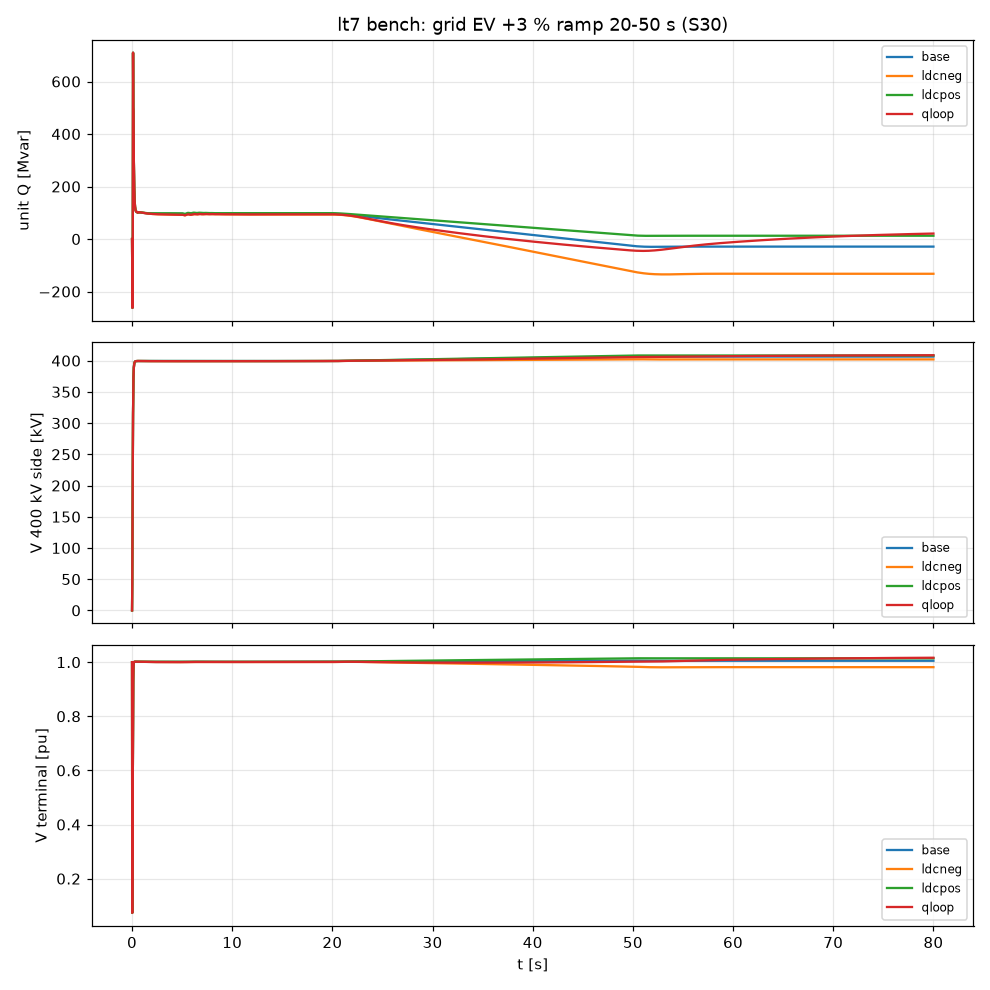
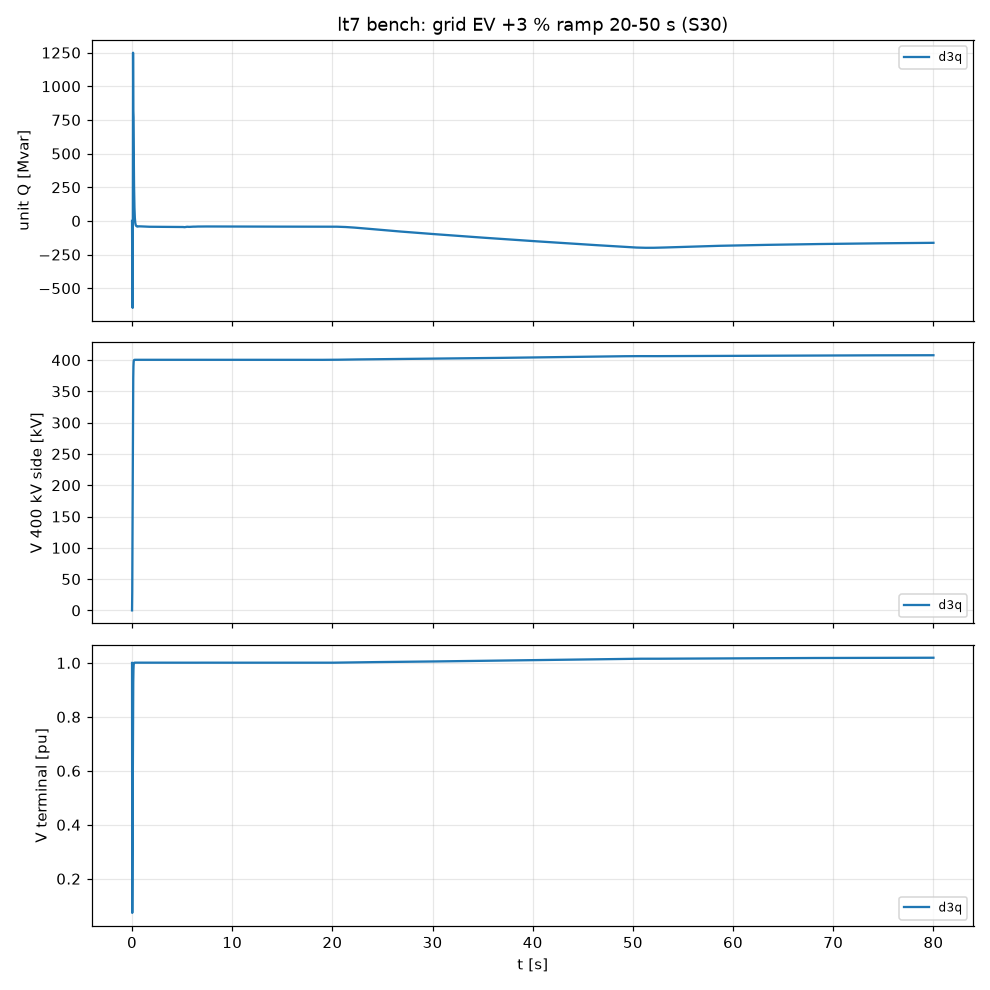
v2 PSCAD skeleton: generator build_v2.py, 162 nodes, 0 errors; RUNLOG S30 sec 3-4

diff --git a/iberia_eq/pscad/build_v2.py b/iberia_eq/pscad/build_v2.py
@@ -1,0 +1,199 @@
+r"""Build the v2 Iberian equivalent in PSCAD from the accepted pandapower state (RUNLOG S30).
+
+usage: python iberia_eq\pscad\build_v2.py --probe          place one of each module type, print ports/params, stop
+       python iberia_eq\pscad\build_v2.py [--build]       generate C:\PSCAD_work\v2\v2.pscx (+ build, print node count)
+
+Source of every number: iberia_eq\cal_s29\base_vk3_net.p (DUMP_NET of the accepted state, S29 sec 10), the v2 design
+(V2_BUS_UNIT_LIST.md) and the S30 decisions:
+  - all units directly on their 400 kV bus (no step-up), AVR load compensation XCc = +vk (3 % Spain, 5 % Portugal),
+    outer Q loop Kdrp 4 / Kiq 0.005 on generators; embedded machines hold Q (Kdrp 0);
+  - Morocco keeps its 15 % transformer (Morocco-Iberia mode);
+  - pumps: PumpUnit per stage behind breaker3 (M1 Duero, M2 Ebro, M3..M7 Portugal Table 3-15);
+  - RES: 21 RES_Plant (report plants + zone aggregates + ARA); zones without a plant net their RES into the load;
+  - loads / shunts / HVDC as varrlc to ground (constant impedance in the skeleton; controls come in the full build);
+  - France: source3 at the FR hub, Z 20 ohm / 85 deg [inf, to calibrate for the 4,609 MW AC peak].
+Everything is connected with node labels placed on the ports (no wires), skill P2/P4.
+"""
+import argparse, math, os, shutil, subprocess, sys, time
+import xml.etree.ElementTree as ET
+import numpy as np, pandapower as pp
+
+HERE = os.path.dirname(os.path.abspath(__file__)); IEQ = os.path.dirname(HERE)
+ap = argparse.ArgumentParser(); ap.add_argument("--probe", action="store_true"); ap.add_argument("--nobuild", action="store_true")
+ap.add_argument("--work", default=r"C:\PSCAD_work\v2")
+a = ap.parse_args()
+WORK = a.work; os.makedirs(WORK, exist_ok=True); PSCX = os.path.join(WORK, "v2.pscx")
+log = open(os.path.join(WORK, "build_v2.log"), "w")
+def L(*x): print(*x, flush=True); print(*x, file=log, flush=True)
+
+# ---------------- project file: lt6 template (DS, empty Main, PumpUnit) + SyncUnit (patched) + RES_Plant ----------------
+t = open(r"C:\PSCAD_work\lt6\lt6_template.pscx", encoding="utf-8").read().replace("lt6:", "v2:").replace('name="lt6"', 'name="v2"')
+open(PSCX, "w", encoding="utf-8").write(t)
+root = ET.parse(PSCX).getroot(); defs = root.find("definitions")
+src = ET.parse(r"C:\PSCAD_work\s29\ib6.pscx").getroot()
+for nm in ("SyncUnit", "RES_Plant"):
+    defs.append([d for d in src.find("definitions") if d.get("name") == nm][0])
+open(PSCX, "w", encoding="utf-8").write(ET.tostring(root, encoding="unicode"))
+r = subprocess.run([sys.executable, os.path.join(HERE, "add_qloop.py"), "--pscx", PSCX], capture_output=True, text=True); L(r.stdout.strip(), r.stderr.strip())
+v1res = {p.get("name"): p.get("value") for e in [x for x in src.find("definitions") if x.get("name") == "Main"][0].iter("User")
+         if e.get("defn") == "ib6:RES_Plant" for p in e.findall("./paramlist/param")}
+
+# ---------------- data from the accepted pandapower state ----------------
+net = pp.from_pickle(os.path.join(IEQ, "cal_s29", "base_vk3_net.p"))
+BN = dict(zip(net.bus.index, net.bus.name)); V = dict(zip(net.bus.name, net.res_bus.vm_pu)); A = dict(zip(net.bus.name, net.res_bus.va_degree))
+lab = lambda b: "B_" + b.replace("-", "_").replace(" ", "_")
+W50 = 2 * math.pi * 50
+
+import mhi.pscad
+os.environ["PATH"] = os.path.join(WORK, "v2.gf81_x86") + os.pathsep + os.environ.get("PATH", "")   # S30 run-env fix
+pscad = mhi.pscad.launch(minimize=False, splash=False, timeout=60)
+try:
+    if not pscad.licensed():
+        c = pscad.get_available_certificates(); c = next(iter(c.values())) if isinstance(c, dict) else c[0]; pscad.get_certificate(c)
+    pscad.load(PSCX); prj = pscad.project("v2"); cv = prj.canvas("Main")
+    L("Main canvas parameters:", cv.parameters() if hasattr(cv, "parameters") else "?")
+    if a.probe:
+        for k, (lib, nm) in enumerate((("v2", "SyncUnit"), ("v2", "RES_Plant"), ("v2", "PumpUnit"), ("master", "breaker3"),
+                                       ("master", "xfmr-3p2w"), ("master", "ground"))):
+            cmp_ = cv.add_component(lib, nm, 20, 20 + 15 * k, 0)
+            L(f"{lib}:{nm} at (20,{20 + 15 * k}) ports", {p: (v.x, v.y) for p, v in cmp_.ports().items()})
+            L("   params", list(cmp_.parameters().keys()) if nm in ("SyncUnit", "RES_Plant", "PumpUnit") else "")
+        raise SystemExit(0)
+
+    # ---------------- placement helpers: labels on read-back ports ----------------
+    POS = {"x": 6, "y": 6}
+    def cell(w=14, h=9):
+        x, y = POS["x"], POS["y"]; POS["x"] += w
+        if POS["x"] > 200: POS["x"] = 6; POS["y"] += h
+        return x, y
+    def nlab(x, y, n): c_ = cv.add_component("master", "nodelabel", x, y, 0); c_.parameters(Name=n)
+    def dlab(x, y, n): c_ = cv.add_component("master", "datalabel", x, y, 0); c_.parameters(Name=n)
+    def gnd(x, y): cv.add_component("master", "ground", x, y, 0)
+    def put(lib, nm, params, node=None, data=None, ground=(), w=14, h=9):
+        x, y = cell(w, h); c_ = cv.add_component(lib, nm, x, y, 0)
+        if params: c_.parameters(**params)
+        P = c_.ports()
+        for port, n in (node or {}).items(): nlab(P[port].x, P[port].y, n)
+        for port, n in (data or {}).items(): dlab(P[port].x, P[port].y, n)
+        for port in ground: gnd(P[port].x, P[port].y)
+        return c_, P
+    def const(v, n):
+        c_, P = put("master", "const", dict(Value=str(v)), w=8); dlab(list(P.values())[0].x, list(P.values())[0].y, n)
+    CNT = {}
+    def count(k): CNT[k] = CNT.get(k, 0) + 1
+
+    # ---------------- lines (pi sections, SI values) ----------------
+    for i_, ln in net.line.iterrows():
+        fa, fb = BN[ln.from_bus], BN[ln.to_bus]; nc = ln.parallel; Lkm = ln.length_km
+        R = ln.r_ohm_per_km * Lkm / nc; X = ln.x_ohm_per_km * Lkm / nc; C = ln.c_nf_per_km * Lkm * nc * 1e-3   # ohm, ohm, uF
+        put("master", "pi_section", dict(Name=f"L{i_}", PU="4", F="50.0", len="1.0", Rp1=f"{R:.6g}", Lp1=f"{X / W50:.6g}", Cp1=f"{max(C, 1e-6):.6g}",
+                                          Rz1=f"{3 * R:.6g}", Lz1=f"{3 * X / W50:.6g}", Cz1=f"{max(0.6 * C, 1e-6):.6g}"),
+            node={"N1": lab(fa), "N2": lab(fb)}); count("line")
+    # ---------------- transformers kept: pump stations, Morocco ----------------
+    for i_, tr in net.trafo.iterrows():
+        if not (tr["name"].startswith("T PS") or tr["name"] == "T Morocco"): continue
+        put("master", "xfmr-3p2w", dict(Tmva=f"{tr.sn_mva:.1f}", Xl=f"{tr.vk_percent / 100:.4f} [pu]", V1="400", V2="400", NLL="0.0016 [pu]",
+                                         Im1="2.0 [%]", Sat="0", YD1="0", YD2="0", f="50"),
+            node={"N1": lab(BN[tr.hv_bus]), "N2": lab(BN[tr.lv_bus])}, ground=("G1",)); count("xfmr")
+    # ---------------- synchronous units ----------------
+    H_ES, H_PT = 5.25, 5.3          # [inf] uniform H so that sum H*S meets Table 2-4 (Spain 97,590, Portugal 21,884 MW s)
+    TERM = {BN[tr.lv_bus]: BN[tr.hv_bus] for _, tr in net.trafo.iterrows() if tr["name"].startswith("T G")}   # unit term -> zone (direct)
+    QHV = {tr["name"][2:]: -net.res_trafo.at[i_, "q_hv_mvar"] for i_, tr in net.trafo.iterrows() if tr["name"].startswith("T G")}
+    def unit(name, bus, Pmw, Qmvar, S, H, XCc, Kdrp, Kiq, Kgov, gov=True):
+        prm = dict(Sbase=f"{S:.1f}", Vbase="400", VbaseLN="230.9401", Ibase=f"{S / (3 ** 0.5 * 400):.4f}", H=f"{H}", P0=f"{Pmw:.1f}",
+                   Q0=f"{Qmvar:.1f}", V0=f"{V[bus]:.5f}", Ph0=f"{math.radians(A[bus]):.6f}", Vctl="0", Tstart="0.5", Pmec="0.0",
+                   Kgov=f"{Kgov}", Tgov="2.0", GovLim="0.054" if gov else "0.0", KA="40", KF="0.03", TF="1.0", Ttrip="1e6", Ptrip="0.0",
+                   XCc=f"{XCc}", Kdrp=f"{Kdrp}", Kiq=f"{Kiq}")
+        put("v2", "SyncUnit", prm, node={"T": lab(bus)}); count("syncunit"); L(f"unit {name:22s} at {bus:12s} P {Pmw:7.1f} Q {Qmvar:+7.1f} S {S:6.0f} V {V[bus]:.4f} ang {A[bus]:+7.2f}")
+    for i_, g in net.gen.iterrows():
+        nm = g["name"]; gb = BN[g.bus]
+        if nm.startswith("G"):
+            zone = TERM[gb]; S = [tr.sn_mva for _, tr in net.trafo.iterrows() if tr["name"] == "T " + nm][0]
+            unit(nm, zone, g.p_mw, QHV[nm], S, H_PT if "PT" in nm else H_ES, 0.05 if "PT" in nm else 0.03, 4.0, 0.005, 5.726)
+        elif nm == "Morocco":
+            unit(nm, gb, g.p_mw, net.res_gen.at[i_, "q_mvar"], 5556.0, 4.0, 0.0, 0.0, 0.0, 5.726)
+    for i_, s in net.sgen.iterrows():                       # embedded synchronous generation: constant Q (outer loop, no droop)
+        if s["name"].startswith("E"):
+            bus = BN[s.bus]; unit(s["name"], bus, s.p_mw, s.q_mvar, s.p_mw / 0.9, H_ES, 0.0, 0.0, 0.05, 0.0, gov=False)
+    # ---------------- pumps: one PumpUnit per stage behind breaker3 ----------------
+    PUMPS = [("M1", "PS-CYL", 1049.0), ("M2", "PS-ARA", 1017.0), ("M3", "PS-PT", 381.0), ("M4", "PS-PT", 450.0), ("M5", "PS-PT", 438.0),
+             ("M6", "PS-PT", 470.0), ("M7", "PS-PT", 359.0)]
+    QP = {BN[g.bus]: (net.res_gen.at[i_, "q_mvar"], -g.p_mw) for i_, g in net.gen.iterrows() if g["name"].startswith("M")}
+    const(0.0, "BRKOFF"); const(0.0, "PLD0")
+    for k, (m_, bus, mw) in enumerate(PUMPS):
+        S = mw / 0.863; q = QP[bus][0] * mw / QP[bus][1]
+        put("master", "breaker3", dict(NAME=f"BRK{m_}", BP=f"PB{m_}", OPCUR="1"), node={"N1": lab(bus), "N2": f"P_{m_}"}, w=8)
+        dlab(*cell(6), f"BRK{m_}") if False else None
+        put("v2", "PumpUnit", dict(Sbase=f"{S:.1f}", Vbase="400", VbaseLN="230.9401", Ibase=f"{S / (3 ** 0.5 * 400):.4f}", H=f"{H_PT if 'PT' in bus else H_ES}",
+                                    P0=f"{-mw:.1f}", Q0=f"{q:.1f}", V0=f"{V[bus]:.5f}", Ph0=f"{math.radians(A[bus]):.6f}", Vctl="0", Tstart="0.5",
+                                    Pmec=f"{-mw / S:.6f}", Kgov="0.0", Tgov="5.0", GovLim="0.0", KA="40", KF="0.03", TF="1.0", Ttrip="1e6", Ptrip="0.0"),
+            node={"T": f"P_{m_}"}, data={"PLD": "PLD0"}); count("pump")
+        const(0.0, f"BRK{m_}")
+    # ---------------- RES plants (21) ----------------
+    RESP = [("R1_Granada", "GRA", 355.0), ("R10_Malaga", "GRA", 154.0), ("A5_GRA", "GRA", 1706 + 82 - 509),
+            ("R2_Badajoz4a", "BAD-TS", 582.0), ("R3_Badajoz4b", "BAD-TS", 145.0), ("R4_Badajoz5b1", "BAD-TS", 118.0), ("R7_BadajozTS3", "BAD-TS", 108.0),
+            ("A2_BAD", "BAD", 1585 - 202), ("R6_Sevilla", "WAN-TS", 550.0), ("R9_Cadiz", "WAN-TS", 153.0), ("A1_WAN", "WAN", 1857 - 145),
+            ("R8_Caceres", "CAC", 78.5), ("A3_CAC", "CAC", 1692 - 226 - 78.5), ("A4_SCE", "SCE", 3687 - 97), ("R5_Segovia", "CYL", 117.0),
+            ("A6_CYL", "CYL", 1010 + 6 - 117), ("R11_Cuenca", "VAL", 530.0), ("A7_VAL", "VAL", 2449 - 105 - 530), ("A7b_SE_R12", "SE", 1524 - 176),
+            ("A8_PTS", "PT-S", 2681.0), ("A9_ARA", "ARA", 1370 + 236)]
+    c1, P1 = put("master", "source1", dict(ACDC="1", Esd="800 [kV]", Ia="IDC"), node=None, w=10)   # shared DC rail (v1 pattern)
+    pe = sorted([v for v in P1.values() if getattr(v, "dim", 1) != 0], key=lambda v: v.x) or sorted(P1.values(), key=lambda v: v.x)
+    L("source1 ports", {k: (v.x, v.y) for k, v in P1.items()})
+    nlab(pe[0].x, pe[0].y, "RAILP"); nlab(pe[-1].x, pe[-1].y, "RAILN")
+    const(0.0, "FRC")
+    ts_, tsp = put("master", "time-sig", None, w=8); dlab(list(tsp.values())[0].x, list(tsp.values())[0].y, "TT")   # shared time for the ramps
+    KPF = -0.135
+    for k, (nm, bus, mw) in enumerate(RESP):
+        S = mw / 0.9; prm = dict(v1res); prm = {kk: vv for kk, vv in prm.items() if kk in ("Sbase", "Kv", "Ki", "Lf", "Cf", "Rf", "Kmod", "Kpf", "CarrPh", "Imax",
+                                    "RampLim", "Vt1", "Tt1", "Vt2", "Tt2", "Vt3", "Tt3", "Nsub", "Share1", "Share2", "Share3", "MeasSide", "Qmode", "Vset", "Tforce", "Trel")}
+        prm.update(Sbase=f"{S:.2f}", Lf=f"{76.394 / S:.6g}", Cf=f"{0.001167 * S:.6g}", Ki=f"{489.9 / S:.6g}", Kpf=f"{KPF}",
+                   Vt1="1.5", Vt2="1.5", Vt3="1.5", Nsub="1", Share1="1.0", Share2="0.0", Share3="0.0", CarrPh=f"{(k * 17.0) % 360:.1f}")
+        x, y = cell(16, 9)
+        up = cv.add_component("master", "upramp", x, y, 0); up.parameters(X1="0.3", X2="1.5", Y2="0.9"); upp = up.ports()
+        po = max(upp.values(), key=lambda v: v.x); dlab(po.x, po.y, f"PR{k + 1}"); pi_ = min(upp.values(), key=lambda v: v.x); dlab(pi_.x, pi_.y, "TT")
+        if k == 0: L("upramp ports", {kk: (v.x, v.y) for kk, v in upp.items()})
+        put("v2", "RES_Plant", prm, node={"AC": lab(bus), "DCP": "RAILP", "DCN": "RAILN"}, data={"Pref": f"PR{k + 1}", "Force": "FRC"}); count("res")
+        L(f"RES {nm:16s} at {bus:7s} {mw:7.1f} MW  S {S:7.1f}")
+    # ---------------- loads, shunts, HVDC (varrlc to ground) ----------------
+    PLANT_ZONES = {b for _, b, _ in RESP} | {"BAD", "WAN"}
+    NET = {}
+    for i_, s in net.sgen.iterrows():                       # RES (and dispatch shifts) of zones without a plant are netted into the load
+        nm = s["name"]
+        if nm.startswith(("RES ", "DSP ")):
+            z = nm.split()[-1]
+            if z not in PLANT_ZONES: NET[z] = NET.get(z, (0.0, 0.0)); NET[z] = (NET[z][0] + s.p_mw, NET[z][1] + s.q_mvar)
+    L("RES netted into loads:", {k: (round(v[0]), round(v[1])) for k, v in NET.items()})
+    def shunt_rl(bus, Pmw, Qmvar, tag):
+        VLL = 400.0 * V[bus]
+        if Pmw > 1.0: put("master", "varrlc", dict(Name=f"R{tag}", RLC="0", R=f"{VLL ** 2 / Pmw:.6g}"), node={"A": lab(bus)}, ground=("B",), w=8); count("varrlc")
+        if Qmvar > 1.0: put("master", "varrlc", dict(Name=f"L{tag}", RLC="1", L=f"{VLL ** 2 / (W50 * Qmvar):.6g}"), node={"A": lab(bus)}, ground=("B",), w=8); count("varrlc")
+        if Qmvar < -1.0: put("master", "varrlc", dict(Name=f"C{tag}", RLC="2", C=f"{-Qmvar / (W50 * VLL ** 2) * 1e6:.6g}"), node={"A": lab(bus)}, ground=("B",), w=8); count("varrlc")
+    for i_, ld in net.load.iterrows():
+        bus = BN[ld.bus]; z = ld["name"].split()[-1]
+        P_, Q_ = net.res_load.at[i_, "p_mw"], net.res_load.at[i_, "q_mvar"]
+        if ld["name"].startswith("Load ") and z in NET: P_ -= NET[z][0]; Q_ -= NET[z][1]
+        shunt_rl(bus, P_, Q_, ld["name"].replace(" ", "_").replace("-", "_"))
+    SH = {}
+    for i_, sh in net.shunt.iterrows(): SH[BN[sh.bus]] = SH.get(BN[sh.bus], 0.0) + sh.q_mvar * sh.step * V[BN[sh.bus]] ** 0   # Mvar at 1 pu
+    for bus, q in SH.items():
+        if abs(q) > 1.0:
+            VLL = 400.0
+            if q > 0: put("master", "varrlc", dict(Name=f"SHL_{lab(bus)}", RLC="1", L=f"{VLL ** 2 / (W50 * q):.6g}"), node={"A": lab(bus)}, ground=("B",), w=8)
+            else: put("master", "varrlc", dict(Name=f"SHC_{lab(bus)}", RLC="2", C=f"{-q / (W50 * VLL ** 2) * 1e6:.6g}"), node={"A": lab(bus)}, ground=("B",), w=8)
+            count("varrlc")
+    # ---------------- France source at the FR hub ----------------
+    put("master", "source3", dict(Type="4", Imp="IMPEDANCE", Z1="20.0 [ohm]", Phi1="85.0 [deg]", Vm=f"{400 * V['FR']:.3f} [kV]", Ph=f"{A['FR']:.4f} [deg]",
+                                  F="50.0 [Hz]", F0="50.0 [Hz]"), node={"N3": lab("FR")}, ground=("N",)); count("source3")
+    L("placed:", CNT)
+    prj.parameters(time_duration="2.0", time_step="20", sample_step="1000", PlotType="1", StartType="0")
+    prj.save()
+    if not a.nobuild:
+        prj.build()
+        msgs = [(str(getattr(m, "status", "")), getattr(m, "text", m)) for m in prj.messages()]
+        for st, tx in msgs:
+            if st.lower() == "error" or any(k in str(tx).lower() for k in ("short circuit", "open circuit", "floating", "unresolved", "contention", "range", "live nodes", "dimension")):
+                L("MSG", st, tx)
+        mp = os.path.join(WORK, "v2.gf81_x86", "v2.map")
+        if os.path.exists(mp): L("MAP:", [ln.strip() for ln in open(mp) if ln.strip().startswith(("NODES", "NNODES", "BRANCHES"))])
+finally:
+    pscad.quit()

diff --git a/iberia_eq/pscad/bench_avr.py b/iberia_eq/pscad/bench_avr.py
@@ -74,21 +74,27 @@ try:
     mm = cv.add_component("master", "multimeter", 18, 20, 0); MP = mm.ports(); L("multimeter ports", {k: (v.x, v.y) for k, v in MP.items()})
     mm.parameters(MeasPh="0", RMS="1", Vrms="VHV", MeasP="1", P="PHV", MeasQ="1", Q="QHV", S="1.0", BaseV="400")
     L("multimeter", {k: mm.parameters().get(k) for k in ("RMS", "Vrms", "MeasP", "P", "MeasQ", "Q", "S", "BaseV")})
-    xf = cv.add_component("master", "xfmr-3p2w", 30, 20, 0); XP = xf.ports(); L("xfmr ports", {k: (v.x, v.y) for k, v in XP.items()})
-    xf.parameters(Tmva=f"{S}", Xl="0.15 [pu]", V1="400", V2="400", NLL="0.0016 [pu]", Im1="2.0 [%]", Sat="0", YD1="0", YD2="0")
+    DIRECT = os.environ.get("DIRECT") == "1"                  # v2: Spanish units directly on the 400 kV bus, no step-up (S30, owner decision)
+    xf = None if DIRECT else cv.add_component("master", "xfmr-3p2w", 30, 20, 0); XP = {} if DIRECT else xf.ports(); L("xfmr ports", {k: (v.x, v.y) for k, v in XP.items()})
+    if xf is not None: xf.parameters(Tmva=f"{S}", Xl="0.15 [pu]", V1="400", V2="400", NLL="0.0016 [pu]", Im1="2.0 [%]", Sat="0", YD1="0", YD2="0")
     su = cv.add_component("lt7", "SyncUnit", 50, 20, 0); UP = su.ports(); L("SyncUnit ports", {k: (v.x, v.y) for k, v in UP.items()})
-    ph0 = np.arcsin(P0 * (0.15 * 400 ** 2 / S + 16.0) / 400 ** 2)
+    ph0 = np.arcsin(P0 * ((0.0 if DIRECT else 0.15) * 400 ** 2 / S + 16.0) / 400 ** 2)
     su.parameters(Sbase=f"{S}", Vbase="400", VbaseLN="230.9401", Ibase=f"{S / (3 ** 0.5 * 400):.4f}", H="3.0", P0=f"{P0}", Q0="0.0",
                   V0="1.0", Ph0=f"{ph0:.5f}", Vctl="0", Tstart="0.5", Pmec="0.0", Kgov="0.0", Tgov="2.0", GovLim="0.0",
                   KA="40", KF="0.03", TF="1.0", Ttrip="1e6", Ptrip="0.0", **({} if os.environ.get("NOPATCH") == "1" else dict(XCc=XCc, Kdrp=Kdrp, Kiq=Kiq)))
     L("SyncUnit", {k: su.parameters().get(k) for k in ("Sbase", "P0", "Ph0")})
     pS, pM1, pM2 = P["N3"] if "N3" in P else list(P.values())[-1], MP[list(MP)[0]], MP[list(MP)[1]]
-    L("wire plan: source", (pS.x, pS.y), "-> mm", (pM1.x, pM1.y), "| mm", (pM2.x, pM2.y), "-> xf", [(v.x, v.y) for v in XP.values()])
+    L("direct" if DIRECT else "via step-up")
     # wiring from the read-back ports (probe run, RUNLOG S30): N3 (12,20) -> mm A (17,20); mm B (19,20) -> xf N1 (27,20);
     # xf N2 (32,20) -> unit T (53,20); xf neutrals G1 (29,22), G2 (30,20) grounded
-    assert (pS.x, pS.y) == (12, 20) and (MP["A"].x, MP["A"].y) == (17, 20) and (XP["N1"].x, XP["N1"].y) == (27, 20) and (UP["T"].x, UP["T"].y) == (53, 20)
-    cv.create_wire((12, 20), (17, 20)); cv.create_wire((19, 20), (27, 20)); cv.create_wire((32, 20), (53, 20))
-    cv.add_component("master", "ground", 29, 24, 0); cv.create_wire((29, 22), (29, 24))
+    assert (pS.x, pS.y) == (12, 20) and (MP["A"].x, MP["A"].y) == (17, 20) and (UP["T"].x, UP["T"].y) == (53, 20)
+    cv.create_wire((12, 20), (17, 20))
+    if DIRECT:
+        cv.create_wire((19, 20), (53, 20))
+    else:
+        assert (XP["N1"].x, XP["N1"].y) == (27, 20)
+        cv.create_wire((19, 20), (27, 20)); cv.create_wire((32, 20), (53, 20))
+        cv.add_component("master", "ground", 29, 24, 0); cv.create_wire((29, 22), (29, 24))
     cv.add_component("master", "ground", 31, 24, 0); cv.create_wire((30, 20), (30, 21), (31, 21), (31, 24)) if False else None
     for i, n in enumerate(("VHV", "QHV", "PHV", "EVS")): pgb(80, 20 + 4 * i, n)
     prj.parameters(time_duration=DUR, time_step="20", sample_step="1000", PlotType="1", StartType="0")

diff --git a/RUNLOG.md b/RUNLOG.md
@@ -47,6 +47,77 @@ One entry per session. Every number is measured or read back, never assumed.
 - **Measured droop at Kdrp 3:** 76 Mvar / 9.3 kV on 1 GW ≈ 8 Mvar/kV per GW (400 kV side). The S29 §11 target is
   10–15, so v2 starts with **Kdrp ≈ 5**, XCc = −0.12, Kiq = 0.005; fine-tuned against the drift in the full model.
 
+### 3. Units directly on the 400 kV bus (owner decision) — bench lt7, `DIRECT=1`
+- **Why:** node budget. As designed, v2 came to ≈ 207 of 200 nodes. Each step-up transformer costs 3 nodes, so
+  removing the 8 unit step-ups saves 24. The network sees the same 3 % connection through AVR load compensation
+  with **positive** XC, which places the regulated point inside the machine.
+- Three cases in parallel, visible:
+
+  | case | XCc | Kdrp / Kiq | dQ unit | dV 400 kV | prediction |
+  |---|---|---|---|---|---|
+  | d0 | 0 | 0 / 0 | −238 Mvar | +2.6 kV | stiffest |
+  | d3 | +0.03 | 0 / 0 | −195 Mvar | +4.3 kV | ratio d3/d0 0.79 → measured 0.82 |
+  | d3q | +0.03 | 5 / 0.005 | −122 Mvar settled (−192 at end of ramp) | +7.3 kV | weak droop |
+
+- **Result:** +XC weakens the unit like a series connection. At Kdrp 5 the droop is ≈ 17 Mvar/kV per GW, above the
+  10–15 target, so the **v2 start is Kdrp 4**.
+- **Settings in v2:** XCc +0.03 for Spain (G1–G7), +0.05 for Portugal (G8); Kiq 0.005. Embedded machines hold their Q
+  (Kdrp 0, Kiq 0.05). Morocco keeps its 15 % transformer for the Morocco–Iberia mode.
+
+### 4. v2 skeleton generator `iberia_eq/pscad/build_v2.py`
+**Inputs:** built directly from the accepted pandapower state (`iberia_eq/cal_s29/base_vk3_net.p`, S29 §10), so the
+PSCAD case matches the load flow by construction. Generates `C:\PSCAD_work22.pscx` in a visible PSCAD and builds
+it. Every connection is a node label placed on a read-back port; there are no wires. Definitions: SyncUnit (ib6,
+patched with `add_qloop.py`), RES_Plant (ib6), PumpUnit (lt6).
+
+**Elements:**
+- **23 buses**, 22 zones plus the FR hub.
+- **33 `pi_section` lines** (SI values R, L, C).
+- **4 transformers:** the three pump stations and Morocco.
+- **17 SyncUnits**, all directly on their bus except Morocco:
+  - G1–G8 and Morocco;
+  - 8 embedded parts: E1 NW/N/CYL, E2 SCE/BAD/WAN, E3 VAL/CAT.
+  - P0, Q0, V0 and Ph0 come from the load flow (unit Q at the 400 kV side).
+  - Uniform H 5.25 s (Spain) / 5.3 s (Portugal) [inf], so that Σ H·S meets Table 2-4.
+- **7 PumpUnits behind `breaker3`:** M1 Duero, M2 Ebro, M3–M7 Portugal (Table 3-15).
+- **21 RES_Plants:**
+  - report plants R1–R12;
+  - zone aggregates;
+  - plus **ARA**, which needed a plant: its RES of 1,606 MW exceeds its load.
+  - RES_Plant scaling read from the 18 ib6 instances: Lf = 76.394/S, Cf = 0.001167·S, Ki = 489.9/S; Rf, Kv, Kmod,
+    Imax are constant. Kpf −0.135. Relays parked at 1.5 pu.
+  - One shared 800 kV DC rail (`source1`, RAILP/RAILN, v1 pattern). `upramp` Pref per plant (0.3 → 1.5 s), fed from
+    one shared `time-sig`.
+- **RES netted into the load where there is no plant:** MAD 1,237, NW 461, N 48, CAT 513, PT-N 1,788 MW. Temporary for
+  the skeleton: the netted RES gets the load's voltage dependence. To be decided before the full build.
+- **Loads and shunts as `varrlc` to ground,** constant impedance in the skeleton:
+  - per-zone load R‖L;
+  - small pumps;
+  - HVDC 1,000 MW at CAT;
+  - one net shunt per bus (Cint + reactors + DSO).
+- **France:** `source3` at the FR hub, Z 20 Ω ∠85° [inf], to be calibrated for the 4,609 MW AC peak (S29 §11 C).
+
+**Port facts read back:**
+- SyncUnit T at (+3, 0);
+- RES_Plant AC (+3, −2), DCP (+3, 0), DCN (+3, +2), Pref (−3, −2), Force (−3, 0), Trip (−3, +2);
+- PumpUnit T (+3, 0), PLD (0, +2);
+- breaker3 N1 (+2, 0), N2 (−2, 0);
+- xfmr-3p2w N1 (−3, 0), N2 (+2, 0), G1 (−1, +2);
+- pi_section N1/N2 (∓1, 0);
+- varrlc A (0, 0), B (+2, 0);
+- source1 A (−2, 0), N (+2, 0);
+- upramp I (−2, 0), O (+2, 0).
+
+The Main canvas is letter size (`85X11`); coordinates beyond it work, as in ib6.
+
+**First build:** all elements placed (33 / 4 / 17 / 7 / 21 / 54 varrlc / 1). Its only errors were the 21 `upramp`
+inputs left floating. Fixed with a shared `time-sig` (TT).
+
+**Rebuild: 0 errors, 162 live nodes** (NNODES 433, BRANCHES 1,279) of the 200 limit.
+- My budget of ≈ 4.5 nodes per RES plant was pessimistic; 38 nodes are left.
+- That headroom allows real plants for the zones whose RES is netted into the load: MAD, NW, CAT, PT-N, and N if
+  wanted (≈ 4 nodes each). Decide before the full build.
+
 ## Session 29 — 2026-11-25 — agent: claude-main (Windows, owner's machine): R2 adopted, two report-based fixes
 
 ### 1. Session 28 reviewed and reproduced; R2 adopted as the base (user decision)
